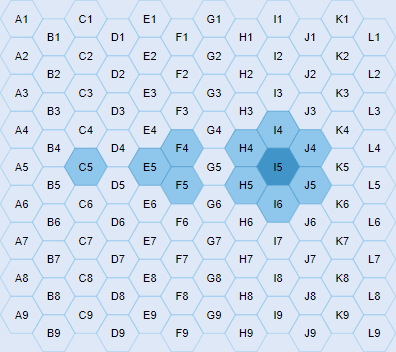
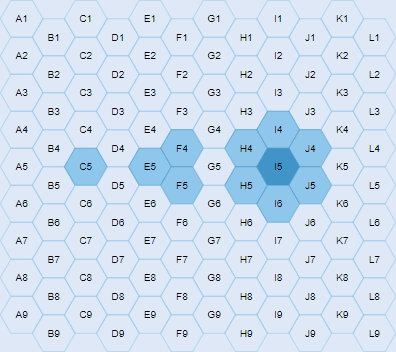
adjust font size

diff --git a/info/task_description.html b/info/task_description.html
@@ -37,9 +37,9 @@ sorted(hexagonal_islands({'A1','A2','A3','A4','B1','B4','C2','C5','D2', 'D3','D4
                             'H6','H7','H8','I6','I9','J5','J9','K6','K9','L6','L7','L8'}) == [16, 19]
 sorted(hexagonal_islands(set())) == []
 </pre>
-<p>
-<img src='{{MEDIA}}hexagonal_islands_example01.png' title='example01' style='max-height: 300px'>
-<img src='{{MEDIA}}hexagonal_islands_example02.png' title='example02' style='max-height: 300px'>
+<p style="text-align: center;">
+<img src='{{MEDIA}}hexagonal_islands_example01.png' title='example01' style='max-height: 294px; margin: 10px;'>
+<img src='{{MEDIA}}hexagonal_islands_example02.png' title='example02' style='max-height: 294px; margin: 10px;'>
 </p>
 </div>
 

diff --git a/editor/animation/init.js b/editor/animation/init.js
@@ -76,7 +76,7 @@ requirejs(['ext_editor_io', 'jquery_190', 'raphael_210'],
                             = [c*R*1.5+R+os, r*H*2+(H*(c%2))+H+os]
                         const fig = String.fromCodePoint(c+65)+(r+1)
                         hexagon_dict[fig] = draw_hex(cx, cy)
-                        paper.text(cx, cy, fig)
+                        paper.text(cx, cy, fig).attr({'font-size': '9px', 'fill': 'black'})
                     }
                 }
             }
